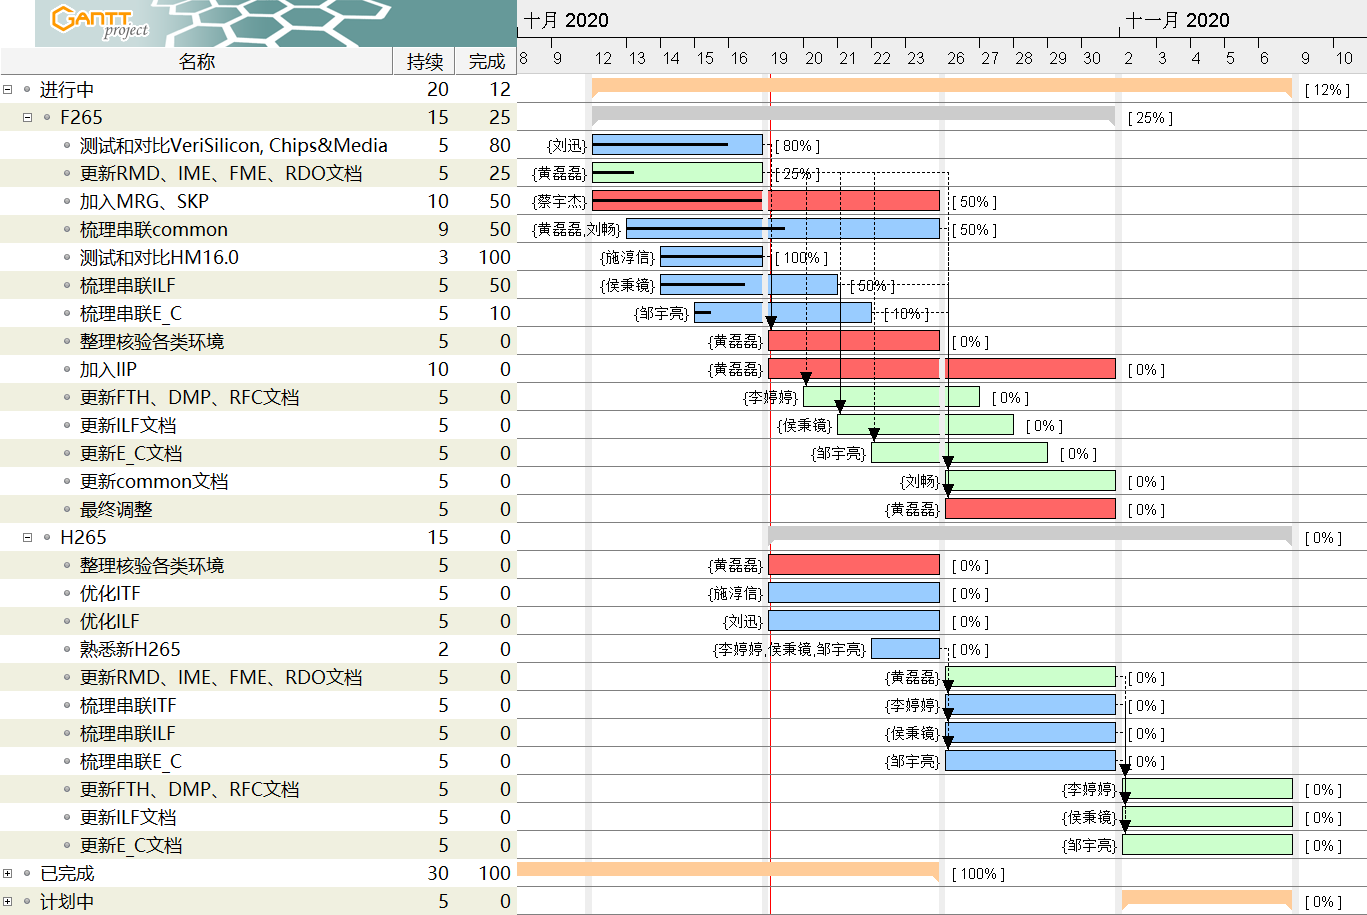
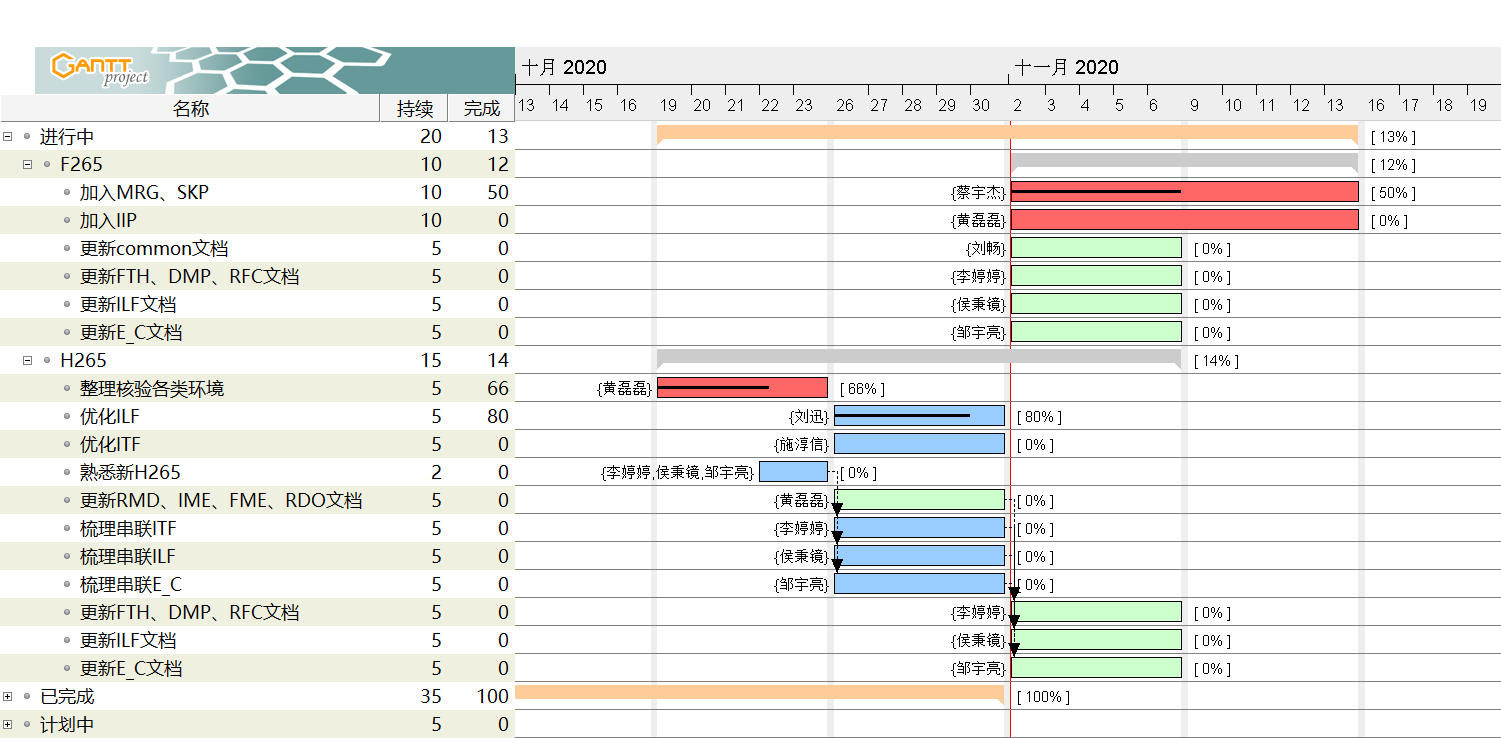
[MINOR] [UPDATE] 1. introduction    a. "Project Tree", "Owner" and "Task List" updated 2. check_list    a. "Item Status" created

diff --git a/source/introduction/main.rst b/source/introduction/main.rst
@@ -10,7 +10,7 @@
 Introduction
 ============
 
-(20200921) Project Tree
+(20201101) Project Tree
 -----------------------
 
 ::
@@ -36,9 +36,11 @@ Introduction
     │   └── runListUpdate.sh       update
     └── src                        source codes
         ├── sys                    system level codes
-        │   └── cfg                configuration related codes
+        │   ├── cfg                configuration related codes
+        │   └── fbs                bit steam related codes
         ├── common                 common codes
-        │   └── lcu                base class LCU related codes
+        │   ├── lcu                base class LCU related codes
+        │   └── rfc                reference frame configuration related codes
         ├── enc                    encoder related codes
         │   ├── enc_knl            encoder kernel related codes
         │   │   ├── enc_fth        fetch related codes
@@ -96,7 +98,7 @@ Introduction
     .. include:: cfg.rst
 
 
-(20200921) Owner
+(20201101) Owner
 ----------------
 
 .. table::
@@ -106,46 +108,53 @@ Introduction
     ================================== ===========================
      Directory                          Owner
     ================================== ===========================
-     /build/linux/                      Huang Leilei
-     /build/windows/                    Huang Leilei
-     /doc/                              ...
-     /script/                           Huang Leilei
-     /src/sys/                          Huang Leilei
-     /src/enc/enc_knl/enc_fth/          Li Tingting
-     /src/enc/enc_knl/enc_rmd/          Huang Leilei
-     /src/enc/enc_knl/enc_ime/          Huang Leilei, Shi Chunxin
-     /src/enc/enc_knl/enc_fme/          Huang Leilei, Shi Chunxin
-     /src/enc/enc_knl/enc_rdo/          Huang Leilei, Liu Xun
-     /src/enc/enc_knl/enc_ilf/          Liu Xun, Hou Bingjing
-     /src/enc/enc_knl/enc_e_c/          Cai Yujie, Zou Yuliang
-     /src/enc/enc_knl/enc_dmp/          Li Tingting
-     /src/enc/enc_knl/enc_knl.(c|h)pp   Huang Leilei
-     /src/enc/enc_top.(c|h)pp           Huang Leilei
-     /src/common/                       Huang Leilei, Liu Chang
+     /build/linux/*                     Huang Leilei
+     /build/windows/*                   Huang Leilei
+     /doc/*                             ...
+     /script/*                          Huang Leilei
+     /src/common/common*                Huang Leilei, Liu Chang
+     /src/common/lcu/*                  Huang Leilei, Liu Chang
+     /src/common/rfc/*                  Li Tingting
+     /src/sys/cfg/*                     Huang Leilei
+     /src/sys/fbs/*                     Zou Yuliang
+     /src/sys/defines_enc.hpp           Huang Leilei
+     /src/sys/types_enc.hpp             Huang Leilei
+     /src/enc/enc_top.cpp               Huang Leilei
+     /src/enc/enc_knl/enc_fth/*         Li Tingting
+     /src/enc/enc_knl/enc_rmd/*         Huang Leilei
+     /src/enc/enc_knl/enc_ime/*         Huang Leilei, Shi Chunxin
+     /src/enc/enc_knl/enc_fme/*         Huang Leilei, Shi Chunxin
+     /src/enc/enc_knl/enc_rdo/*         Huang Leilei, Liu Xun
+     /src/enc/enc_knl/enc_rec/*         Huang Leilei, Liu Xun
+     /src/enc/enc_knl/enc_ilf/*         Liu Xun, Hou Bingjing
+     /src/enc/enc_knl/enc_e_c/*         Cai Yujie, Zou Yuliang
+     /src/enc/enc_knl/enc_dmp/*         Li Tingting
+     /src/enc/enc_knl/enc_knl*          Huang Leilei
+     /src/dec/dec_knl/dec_e_d/*         Cai Yujie
     ================================== ===========================
 
 
-(20201019) Task List
+(20201101) Task List
 --------------------
 
 .. image:: task.png
 
 \
 
-
 .. table:: **2020.10**
     :align: left
     :widths: auto
 
     ============= ============ ============================================= ========================= =============== =====================
-     Number        Task         Start Point                                   Target Module             Owner           Status
+     Number        Task         Start Point                                   Target Items              Owner           Status
     ============= ============ ============================================= ========================= =============== =====================
      20201010-01   comb up      tidyup/src/008/combUp/master                  /src/                     Huang Leilei    20201010 - 20201012
-     20201013-01   comb down    tidyup/src/common/000/tidyUp/master           /src/common               Liu Chang       **20201013 -**
+     20201013-01   comb down    tidyup/src/common/000/tidyUp/master           /src/common               Liu Chang       20201013 - 20201023
      20201013-02   comb down    update/src/common/rfc/000/create/master(2)    /src/fth, dmp             Li Tingting     20201013 - 20201015
-     20201014-01   comb down    tidyup/src/009/continueOfCombDown/master      /src/ilf                  Hou Bingjing    **20201014 -**
-     20201015-01   comb down    tidyup/src/009/continueOfCombDown/master      /src/e_c                  Zou Yuliang     **20201015 -**
-     20201018-01   create doc   update/doc/000/createDocForEachClass/master   /src/rmd, ime, fme, rdo   Huang Leilei    **20201018 -**
+     20201014-01   comb down    tidyup/src/009/continueOfCombDown/master      /src/ilf                  Hou Bingjing    20201014 - 20201025
+     20201015-01   comb down    tidyup/src/009/continueOfCombDown/master      /src/e_c                  Zou Yuliang     20201015 - 20201025
+     20201018-01   create doc   update/doc/000/createDocForEachClass/master   /src/rmd, ime, fme, rdo   Huang Leilei    20201018 - 20201025
+     20201026-01   final tune   tidyup/src/010/finalTune/master               /src                      Huang Leilei    20201026 - 20201101
     ============= ============ ============================================= ========================= =============== =====================
 
 \
@@ -155,7 +164,7 @@ Introduction
     :widths: auto
 
     ============= ======================================================== ============================================================== =================================== =============== =====================
-     Number        Task                                                     Start Point                                                    Target Module                       Owner           Status
+     Number        Task                                                     Start Point                                                    Target Items                        Owner           Status
     ============= ======================================================== ============================================================== =================================== =============== =====================
      20200907-01   create base class and tidy up other whatever I noticed   tidyup/src/003/tidyUpWhatINoticed/master                       /src/enc/enc_knl/enc_rmd/           Huang Leilei    20200901 - 20200902
      20200907-01   create base class and tidy up other whatever I noticed   tidyup/src/003/tidyUpWhatINoticed/master                       /src/enc/enc_knl/enc_ime/           Huang Leilei    20200907 - 20200908
@@ -186,7 +195,7 @@ Introduction
     :widths: auto
 
     ============= ================ ==================================================== ============================ ============== =====================
-     Number        Task             Start Point                                          Target Module                Owner          Status
+     Number        Task             Start Point                                          Target Items                 Owner          Status
     ============= ================ ==================================================== ============================ ============== =====================
      20200803-01   restructure      tidyup/src/001/restructure/master                    /src/enc/enc_core/enc_fth/   Li Tingting    20200804 - 20200805
      20200803-01   restructure      tidyup/src/001/restructure/master                    /src/enc/enc_core/enc_rmd/   Huang Leilei   20200803 - 20200803
@@ -209,7 +218,7 @@ Introduction
     :widths: auto
 
     ============= ============================================== =================================================== ======================================== =========================== ========================
-     Number        Task                                           Start Point                                         Target Module                            Owner                       Status
+     Number        Task                                           Start Point                                         Target Items                             Owner                       Status
     ============= ============================================== =================================================== ======================================== =========================== ========================
      20200713-01   relocate files according to new project tree   /                                                   /                                        Huang Leilei                20200713 - 20200714
      20200713-02   maintain                                       /                                                   /build/                                  Huang Leilei, Shi Chunxin   20200713 - 20200714

diff --git a/source/check_list/main.rst b/source/check_list/main.rst
@@ -84,6 +84,60 @@ Check List
     \
 
 
+(20201101) Item Status
+----------------------
+
+.. table::
+    :align: left
+    :widths: auto
+
+    ================================== =============================
+     Items                              Status
+    ================================== =============================
+     /build/linux/*                     reset on 2020.11.01
+     /build/windows/*                   **to be fixed**
+     \-
+     /doc/description/RMD*              **to be updated**
+     /doc/description/IME*              **to be updated**
+     /doc/description/FME*              **to be updated**
+     /doc/description/RDO*              **to be updated**
+     /doc/description/ILF*              **to be updated**
+     /doc/description/E_C*              **to be updated**
+     /doc/description/E_D*              **to be updated**
+     /doc/description/RFC*              **to be updated**
+     \-
+     /script/fitCst/*                   **to be maintained**
+     /script/getBdRate/*                reset on 2020.11.01
+     /script/getInfo/*                  reset on 2020.11.01
+     /script/getPsnr/*                  reset on 2020.11.01
+     /script/run/*                      reset on 2020.11.01
+     /script/runChipsMedia/*            reset on 2020.11.01
+     /script/runHM/*                    reset on 2020.11.01
+     /script/runVeriSilicon/*           **to be maintained**
+     /script/runX265/*                  reset on 2020.11.01
+     /script/showDiff/*                 reset on 2020.11.01
+     \-
+     /src/common/common*                reset on 2020.11.01
+     /src/common/lcu/*                  reset on 2020.11.01
+     /src/common/rfc/*                  reset on 2020.11.01
+     /src/sys/cfg/*                     reset on 2020.11.01
+     /src/sys/fbs/*                     **to be tidied up**
+     /src/sys/defines_enc.hpp           reset on 2020.11.01
+     /src/sys/types_enc.hpp             reset on 2020.11.01
+     /src/enc/enc_top.cpp               reset on 2020.11.01
+     /src/enc/enc_knl/enc_fth/*         reset on 2020.11.01
+     /src/enc/enc_knl/enc_rmd/*         reset on 2020.11.01
+     /src/enc/enc_knl/enc_ime/*         reset on 2020.11.01
+     /src/enc/enc_knl/enc_fme/*         reset on 2020.11.01
+     /src/enc/enc_knl/enc_rdo/*         reset on 2020.11.01
+     /src/enc/enc_knl/enc_rec/*         reset on 2020.11.01
+     /src/enc/enc_knl/enc_ilf/*         **to be further tidied up**
+     /src/enc/enc_knl/enc_e_c/*         **to be further tidied up**
+     /src/enc/enc_knl/enc_dmp/*         reset on 2020.11.01
+     /src/enc/enc_knl/enc_knl*          reset on 2020.11.01
+     /src/dec/dec_knl/dec_e_d/*         **to be integrated**
+    ================================== =============================
+
 (20201014) Performance Status
 -----------------------------
 
